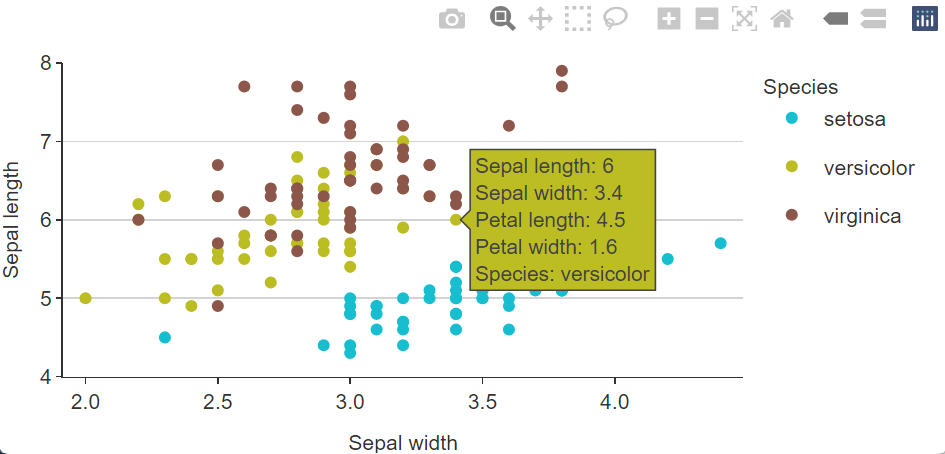
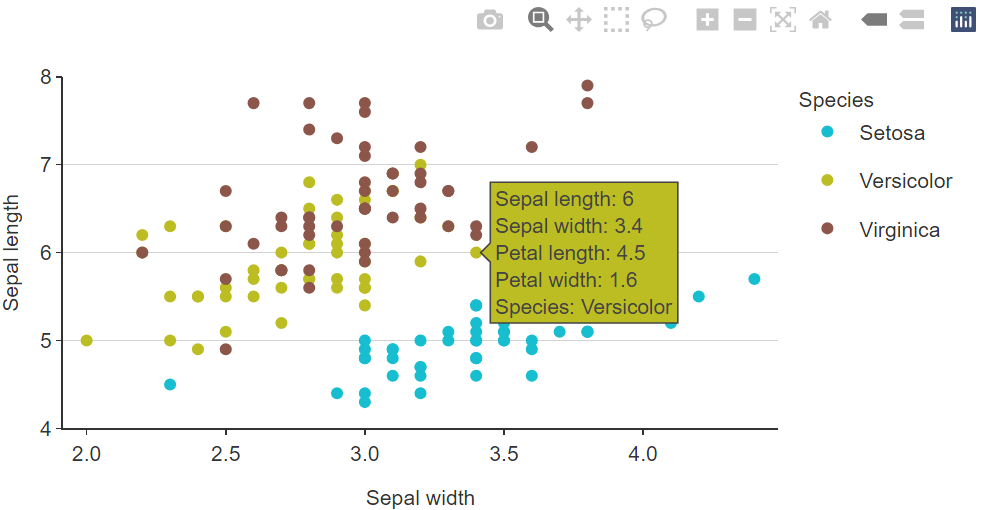
Update README ggplotly

diff --git a/README.md b/README.md
@@ -20,11 +20,9 @@ downloads](https://cranlogs.r-pkg.org/badges/last-day/ggblanket?color=lightgrey)
 ## Overview
 
 {ggblanket} is a package of wrapper functions around the amazing
-{ggplot2} package.
+‘ggplot2’ package to **simplify pretty visualisation**.
 
-The objective is to **simplify beautiful {ggplot2} visualisation**.
-
-With this in mind, the {ggblanket} package:
+With this objective in mind, the {ggblanket} package:
 
 1.  uses `gg_*` functions that each wrap a `ggplot2::ggplot` call with a
     single `ggplot2::geom_*` function
@@ -195,6 +193,7 @@ penguins %>%
           pal = pals::brewer.blues(9),
           width = 0.9, 
           height = 0.9, 
+          size = 0.5,
           title = "Average penguin body mass",
           subtitle = "Palmer Archipelago, Antarctica",
           theme = gg_theme(pal_axis = "#ffffff", pal_ticks = "#ffffff")) +
@@ -213,7 +212,8 @@ penguins %>%
     x = bill_length_mm,
     y = flipper_length_mm,
     col = species,
-    level = 0.99
+    level = 0.99,
+    size = 0.5
     ) 
 ```
 
@@ -226,6 +226,7 @@ arguments. But it does work a lot of the time.
 
 ``` r
 iris %>% 
+  mutate(Species = stringr::str_to_sentence(Species)) %>% 
   add_tooltip_text() %>% 
   gg_point(x = Sepal.Width, 
            y = Sepal.Length, 
